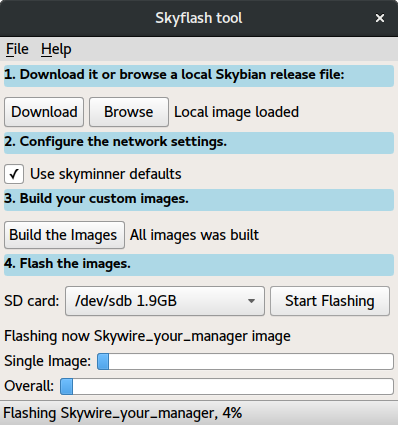
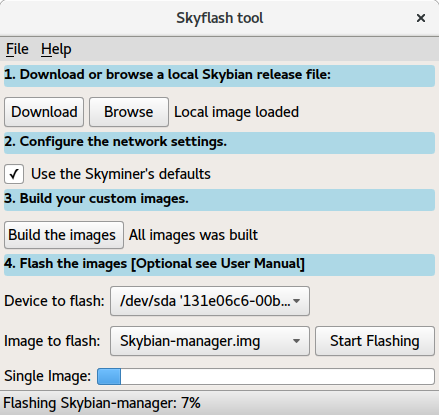
Refs #22, User manual update to reflect recent changes

diff --git a/USER_MANUAL.md b/USER_MANUAL.md
@@ -2,15 +2,7 @@
 
 ## Installation
 
-To install Skyflash, go to the [Releases](https://github.com/skycoin/skyflash/releases) link on this page and grab the file corresponding file to your OS, use the following table to figure it out:
-
-| Operating System | You must download the one... |
-|:----------------:|:--------------------------------:|
-| Windows | ...that ends with **.exe** |
-| Linux | ...that ends with **.deb** |
-| MacOS | ...that ends with **.dmg** |
-
-Installing it and running is done by the default OS way and that is out of the scope of this user's manual, use the internet to search for the answer if in doubt.
+Please refer to the [README](README.md) for install instructions.
 
 ## Workflow explained
 
@@ -33,24 +25,26 @@ In this windows you are presented with two choices, download or select a local S
 
 ### Downloading
 
-A word of caution: if your internet is unstable, limited or slow don't try this option, the download process will pull down about 600 MB of data and has no resume option; if your download get interrupted at 99% it will start over from 0% again!
+A word of caution: if your internet is unstable, limited or slow don't try this option, read the section below; the download process will pull down about 600 MB of data and has no resume option _(Blame Github on that)_; if your download get interrupted at 99% it will start over from 0% again!
 
-In the other hand if you have a fast and steady internet connection like more than 4 MBit/sec you are set, select this option and the app will download the image for you.
+In the other hand if you have a fast and steady internet connection like more than 4 MBit/sec you are set, select this option and the app will download the image for you, as usual YMMV.
 
 ### Selecting a local copy
 
-This is the alternative if the download option is not the best choice for you because the above mentioned issues.
+This is the alternative option if the download option is not the best choice for you because the above mentioned speed/stability issues in your internet link.
 
-Go to a place with a steady and fast internet connection and use whatever device you have (Cell, tablet, laptops, etc) to download the latest Skybian base image. Go to the [Skybian release page](https://github.com/skycoin/skybian/releases/) pick the latest available release (it's the file ending on .tar.xz) once you get it move it to your PC and click on the "Browse" button to select the file.
+Go to a place with a steady and fast internet connection and use whatever device you have (Cell, tablet, laptops, etc) to download the latest Skybian base image. Go to the [Skybian release page](https://github.com/skycoin/skybian/releases/) pick the latest available release (it's the big file ending on .tar.xz) once you get it move it to your PC and click on the "Browse" button to select the file.
 
 Either downloading or selecting a local copy, the app will extract the compressed file and then check the integrity of the data inside, all this with feedback of the process for you:
 
 ![Extracting the Skybian base image release file](/images/extract.png)
 ![Verifying the Skybian base image](/images/verify.png)
 
+### About corrupt files
+
 If the app finds any problem on any of this two operations (mainly due to corrupt files) it will let you know with a error/warning dialog box. In that case the solution is to download again the Skybian release file (by the app itself of using an alternative way) and start over.
 
-### A word about folders and magic
+### About folders and magic
 
 We incorporated a magic effect into Skyflash to ease your life, go & close the app at this point and re-open it... you will see it knows that it has already a Skybian base image and it will show ready for steps #2 & #3
 
@@ -74,7 +68,7 @@ Once you reach this point the app's window looks like this:
 
 ![Network configuration defaults](/images/net-default.png)
 
-If you plan to run a Skyminer with the default network configuration you are set, you can jump to step #3 (if you are curious about the default network config, just un-tick the `Use Skyminer's defaults` box to see it on details, but remember to tick it again)
+If you plan to run a Skyminer with the default network configuration for the testnet you are set, you can jump to step #3 (if you are curious about the default network config, just un-tick the `Use Skyminer's defaults` box to see it on details, but remember to tick it again)
 
 If you plan to run it on an already existent network and you need to tweak the network parameters then un-tick the `Use Skyminer's defaults` box to see and edit the network details. If you do that it will show it like this:
 
@@ -101,7 +95,7 @@ During the image generation you may see a windows like this to show you the proc
 
 ![Building images](/images/images.png)
 
-When this process finish you will have the images in your Skybian folder, they will have names like `Skybian_your_manager.img` & `Skybian_your_minion-1.img` and so on.
+When this process finish you will have the images in your Skybian folder, they will have names like `Skybian-manager.img` & `Skybian-minion-1.img` and so on.
 
 ## Step #4: Flashing the images
 
@@ -111,15 +105,15 @@ You may want to flash the image now or later, if you want to do it now then you 
 
 **A word of warning:** once you generate the images and close Skyflash you will not be able to use Skyflash to burn the same images unless you re-generate the images. For this reason we recommend to have a copy of BalenaEtcher at hand to burn the previously generated images.
 
-*The flashing process is working only on Linux OS by now, we intend to cover Windows and MacOS soon.*
+*The flashing process is working only on Linux & Windows by now, we intend to cover MacOS soon.*
 
-To start the flashing process you need to select the proper device in the combo box, but first a needed warning:
+To start the flashing process you need to select the proper device, and image in the combo boxes, but first a needed warning:
 
 ### WARNING!
 
-The flashing process **is not reversible**, please double check that the device selected on the combo box is the correct one or you may flash the Skybian Image to one of your HDDs rendering it unusable and will loss the data on it.
+The flashing process **is not reversible**, please double check that the device selected on the combo box is the correct one or you may flash the Skybian Image to one of your USB Flash drives rendering it unusable and will loss the data on it.
 
-The process to detect the correct uSDCard device is tricky (specially on Linux with recent kernels) and we have to extend it to a few common devices, that may lead into false detection of flash thumb drives and even partitions of the HDD.
+The process to detect the correct uSDCard device is tricky (specially on Linux with recent kernels) and we have to extend it to a few common devices, that may lead into false detection of flash thumb drives.
 
 We recommend to double and triple check that the device selected is the real uSDCard on the slot.
 
@@ -127,4 +121,14 @@ A sample flashing in progress looks like this:
 
 ![Flashing the images](/images/flashing-in-progress.png)
 
-Of curse, it will ask for admin/root privileges to do the task on every burn, and will let you know how to proceed and each uSDCard is flashed in a multiple flash process.
+### uSD Card and flash process duration
+
+The flash process depends on the speed of your uSD card, using Class 10 or higher class cards is mandatory or you will risk your data with an failed card due to wear out or experience low performance.
+
+But yes, flashing one card can take about 3 to 5 minutes depending on flash class & specs.
+
+## Why skyflash ask for credentials or privileged operations?
+
+Flashing to a uSD Card is a privileged operation and Skyflash has built a mechanism to get that privileges at some point.
+
+Depending on your operating system you will see a credential asking box sooner or later, in Windows the privilege asking happens at the start of the app, on Linux on the start of each flash operation.
